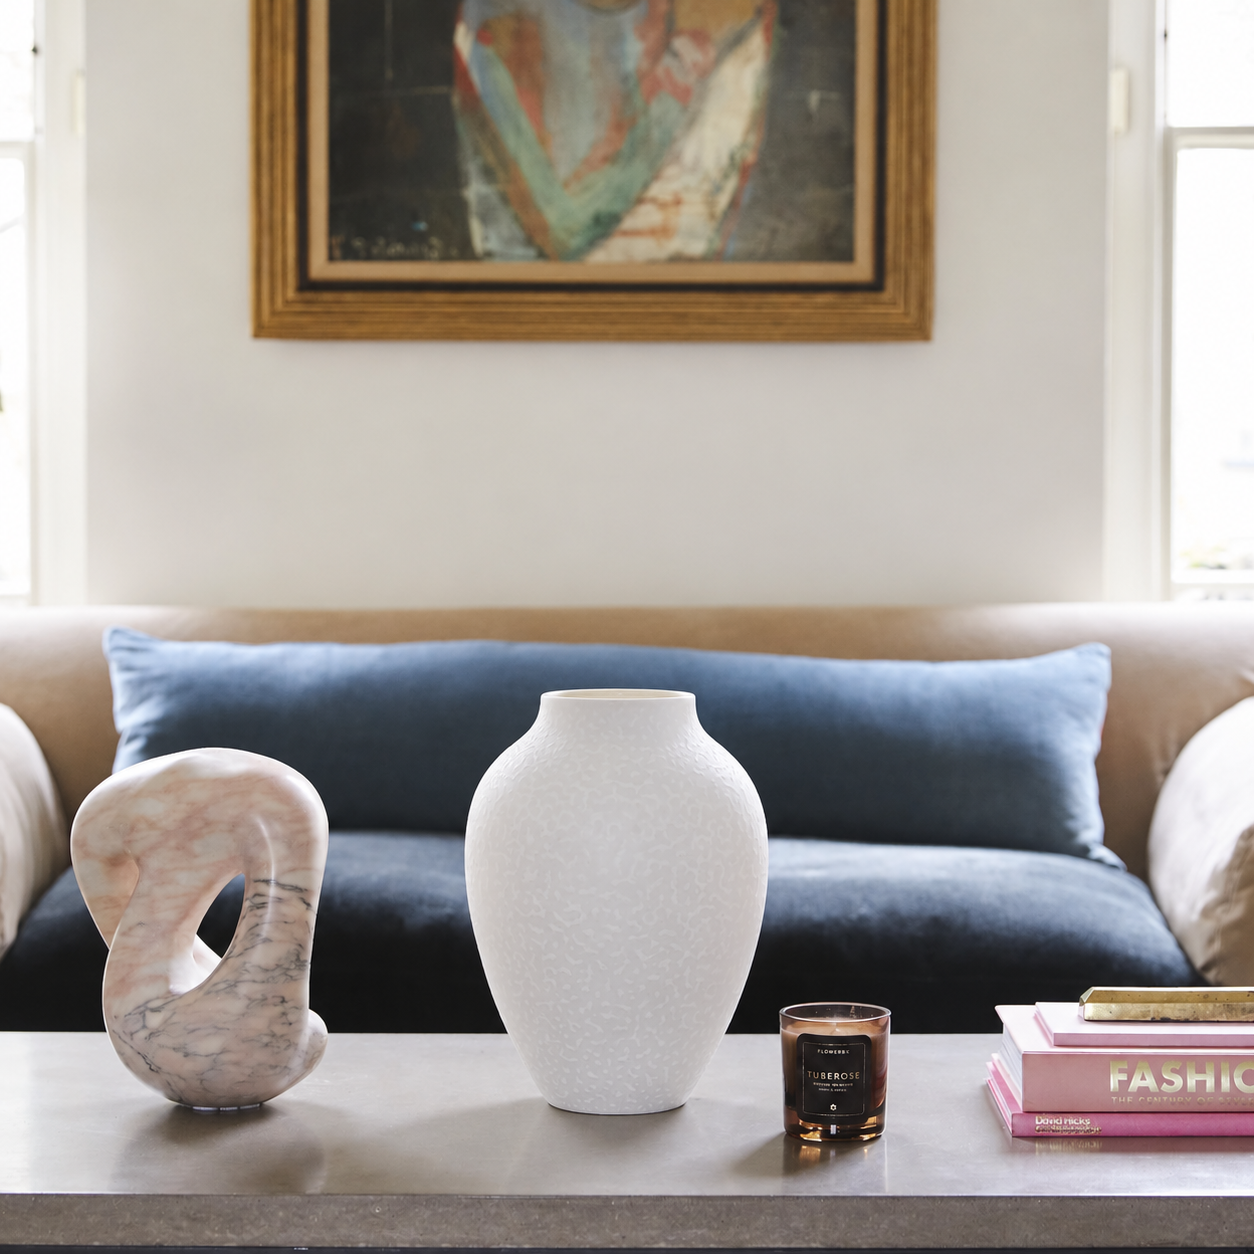
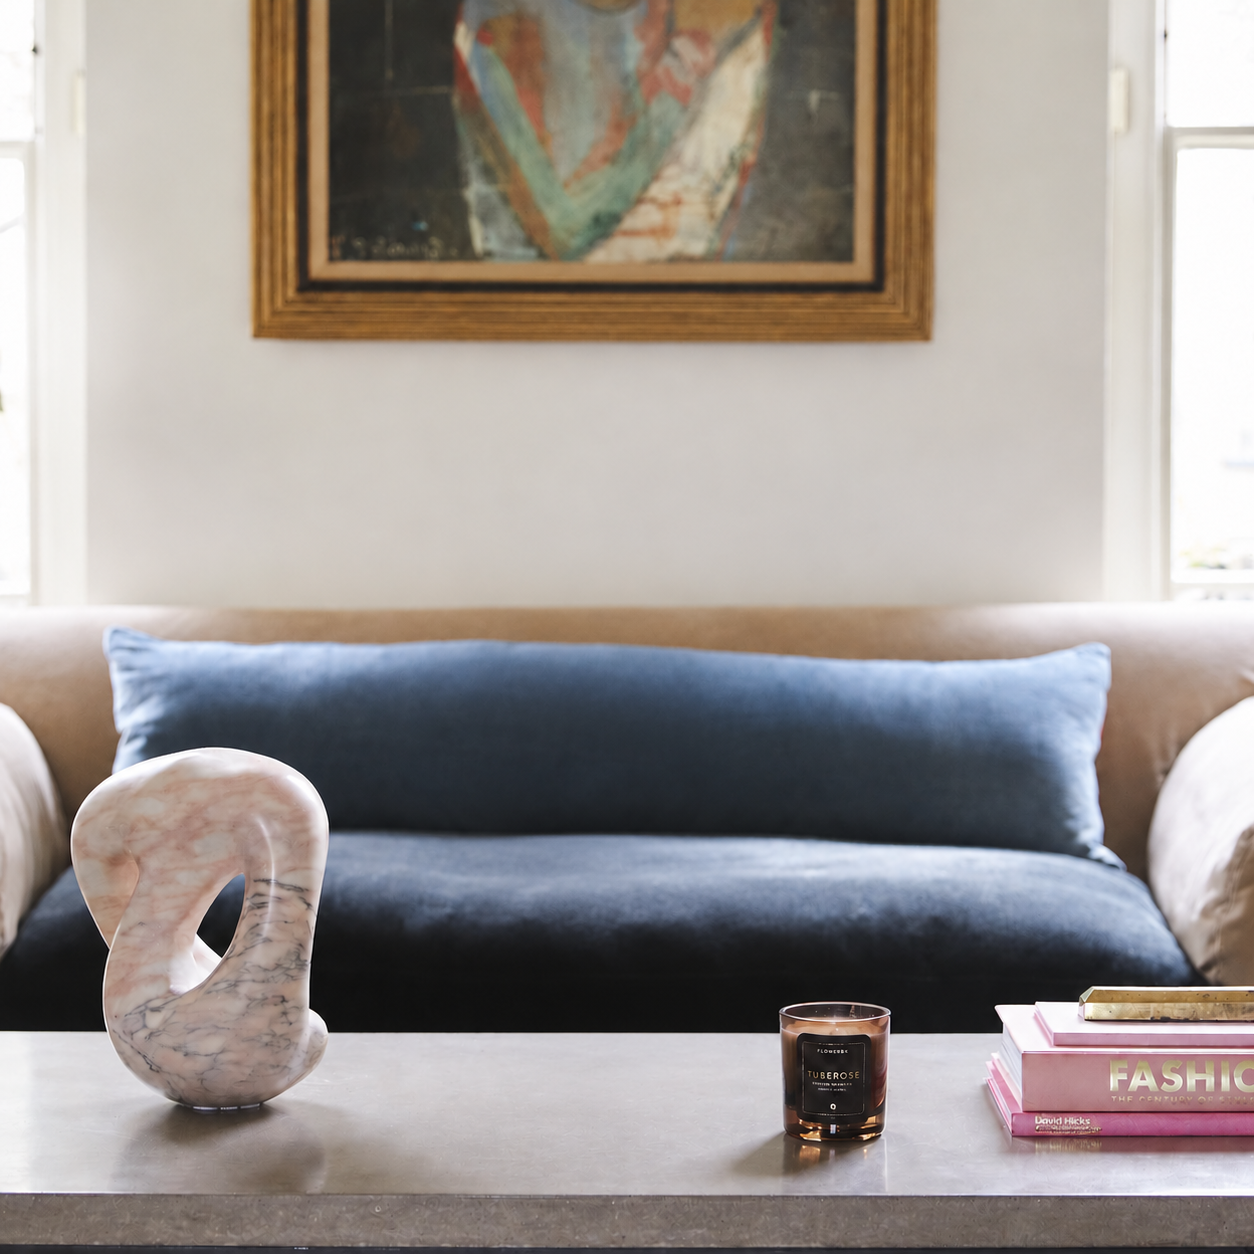
Refactor plant components and add Vase component for improved visuals

diff --git a/src/components/plant/Vase.tsx b/src/components/plant/Vase.tsx
@@ -1,0 +1,65 @@
+interface VaseProps {
+  /** y coordinate of the rim opening — the stem's base point. */
+  rimY: number;
+}
+
+const CX = 200;
+
+/**
+ * An illustrated white ceramic vase matching the one in the background
+ * photo, so the stem always aligns with a real opening regardless of how
+ * the photo itself gets cropped on a given screen.
+ */
+export function Vase({ rimY }: VaseProps) {
+  const rimHalfWidth = 42;
+  const shoulderHalfWidth = 84;
+  const shoulderY = rimY + 50;
+  const waistY = rimY + 160;
+  const footHalfWidth = 54;
+  const footY = rimY + 270;
+
+  const bodyPath = `
+    M ${CX - rimHalfWidth},${rimY}
+    C ${CX - shoulderHalfWidth * 0.86},${rimY + 22} ${CX - shoulderHalfWidth},${shoulderY - 14} ${CX - shoulderHalfWidth},${shoulderY + 6}
+    C ${CX - shoulderHalfWidth},${waistY + 16} ${CX - (shoulderHalfWidth + footHalfWidth) / 2},${footY - 34} ${CX - footHalfWidth},${footY}
+    Q ${CX},${footY + 10} ${CX + footHalfWidth},${footY}
+    C ${CX + (shoulderHalfWidth + footHalfWidth) / 2},${footY - 34} ${CX + shoulderHalfWidth},${waistY + 16} ${CX + shoulderHalfWidth},${shoulderY + 6}
+    C ${CX + shoulderHalfWidth},${shoulderY - 14} ${CX + shoulderHalfWidth * 0.86},${rimY + 22} ${CX + rimHalfWidth},${rimY}
+    Z
+  `;
+
+  const speckles: { x: number; y: number; r: number }[] = [
+    { x: -66, y: 40, r: 1.6 }, { x: -35, y: 68, r: 1.1 }, { x: 24, y: 26, r: 1.3 },
+    { x: 62, y: 74, r: 1.5 }, { x: -80, y: 112, r: 1.2 }, { x: -12, y: 124, r: 1.6 },
+    { x: 46, y: 118, r: 1.1 }, { x: 80, y: 136, r: 1.3 }, { x: -52, y: 160, r: 1.4 },
+    { x: 6, y: 178, r: 1.2 }, { x: 58, y: 172, r: 1.5 }, { x: -24, y: 202, r: 1.1 },
+    { x: 34, y: 208, r: 1.3 }, { x: -70, y: 74, r: 1.0 }, { x: 74, y: 38, r: 1.0 },
+    { x: -8, y: 88, r: 1.2 }, { x: 20, y: 196, r: 1.1 }, { x: -44, y: 220, r: 1.0 },
+  ];
+
+  return (
+    <g aria-hidden="true">
+      <ellipse cx={CX + 4} cy={footY + 18} rx={footHalfWidth + 30} ry={13} fill="var(--vase-contact-shadow)" opacity={0.3} />
+
+      <path d={bodyPath} fill="url(#vaseGradient)" stroke="var(--vase-shade)" strokeWidth={0.6} />
+
+      <g opacity={0.35}>
+        {speckles.map((s, i) => (
+          <circle key={i} cx={CX + s.x} cy={rimY + s.y} r={s.r} fill="var(--vase-speckle)" />
+        ))}
+      </g>
+
+      <path
+        d={`M ${CX - shoulderHalfWidth * 0.55},${shoulderY + 20} Q ${CX - shoulderHalfWidth * 0.75},${waistY + 30} ${CX - shoulderHalfWidth * 0.5},${footY - 20}`}
+        stroke="var(--vase-highlight)"
+        strokeWidth={10}
+        strokeLinecap="round"
+        fill="none"
+        opacity={0.25}
+      />
+
+      <ellipse cx={CX} cy={rimY} rx={rimHalfWidth} ry={9} fill="url(#vaseRimGradient)" />
+      <ellipse cx={CX} cy={rimY - 1} rx={rimHalfWidth - 8} ry={6} fill="var(--vase-opening)" />
+    </g>
+  );
+}

diff --git a/src/components/plant/Plant.tsx b/src/components/plant/Plant.tsx
@@ -1,5 +1,6 @@
 import { useEffect, useMemo } from "react";
 import { motion, useAnimationControls } from "motion/react";
+import { Vase } from "./Vase";
 import { Leaf } from "./Leaf";
 import { Bud } from "./Bud";
 import { Flower } from "./Flower";
@@ -25,8 +26,8 @@ export interface PlantProps {
 }
 
 const CX = 200;
-/** The vase's rim line — where the stem appears to emerge from the real photographed vase. */
-const BASE_Y = 430;
+/** The vase's rim line — where the stem appears to emerge from the illustrated vase. */
+const BASE_Y = 355;
 const MAX_STEM_HEIGHT = 300;
 const CURVE_AMOUNT = 22;
 
@@ -107,16 +108,25 @@ export function Plant({
 
   return (
     <svg
-      viewBox="0 0 400 450"
+      viewBox="0 0 400 630"
       className="plant-illustration"
       role="img"
       aria-label={
         isBloomed
-          ? "A fully bloomed pink lily rising from the vase"
-          : "A lily seedling growing from the vase"
+          ? "A fully bloomed pink lily rising from a white vase"
+          : "A lily seedling growing from a white vase"
       }
     >
       <defs>
+        <linearGradient id="vaseGradient" x1="0" y1="0" x2="1" y2="0.15">
+          <stop offset="0%" stopColor="var(--vase-mid)" />
+          <stop offset="45%" stopColor="var(--vase-light)" />
+          <stop offset="100%" stopColor="var(--vase-dark)" />
+        </linearGradient>
+        <linearGradient id="vaseRimGradient" x1="0" y1="0" x2="0" y2="1">
+          <stop offset="0%" stopColor="var(--vase-light)" />
+          <stop offset="100%" stopColor="var(--vase-shade)" />
+        </linearGradient>
         <linearGradient id="leafGradient" x1="0" y1="1" x2="0" y2="0">
           <stop offset="0%" stopColor="var(--leaf-dark)" />
           <stop offset="55%" stopColor="var(--leaf-mid)" />
@@ -163,6 +173,8 @@ export function Plant({
             : undefined
         }
       >
+        <Vase rimY={BASE_Y} />
+
         {growth > 0 && (
           <path
             d={stemPath}

diff --git a/src/components/WateringOverlay.tsx b/src/components/WateringOverlay.tsx
@@ -6,8 +6,8 @@ interface WateringOverlayProps {
   reducedMotion: boolean;
 }
 
-const SPOUT_TIP = { x: 246, y: 95 };
-const SOIL_TARGET = { x: 210, y: 410 };
+const SPOUT_TIP = { x: 246, y: 100 };
+const SOIL_TARGET = { x: 205, y: 365 };
 
 export function WateringOverlay({ pulse, reducedMotion }: WateringOverlayProps) {
   if (pulse === 0) return null;
@@ -17,7 +17,7 @@ export function WateringOverlay({ pulse, reducedMotion }: WateringOverlayProps) 
   return (
     <svg
       key={pulse}
-      viewBox="0 0 400 450"
+      viewBox="0 0 400 630"
       className="watering-overlay"
       aria-hidden="true"
       focusable="false"
@@ -32,7 +32,7 @@ export function WateringOverlay({ pulse, reducedMotion }: WateringOverlayProps) 
         transition={{ duration, times: [0, 0.28, 0.72, 1], ease: "easeInOut" }}
         style={{ transformOrigin: `${SPOUT_TIP.x}px ${SPOUT_TIP.y}px` }}
       >
-        <g transform="translate(216, 37)">
+        <g transform="translate(216, 42)">
           <rect x="0" y="18" width="58" height="40" rx="12" fill="var(--can-body)" />
           <rect x="8" y="4" width="24" height="18" rx="6" fill="var(--can-body)" />
           <path

diff --git a/src/App.css b/src/App.css
@@ -70,17 +70,15 @@
 
 .garden-stage {
   position: absolute;
-  top: 9vh;
-  left: 50%;
+  top: 39vh;
+  left: 51%;
   transform: translateX(-50%);
-  height: 48vh;
-  aspect-ratio: 400 / 450;
-  max-width: 92vw;
+  width: min(56vw, 225px);
 }
 
 .plant-illustration {
   width: 100%;
-  height: 100%;
+  height: auto;
   display: block;
   overflow: visible;
 }

diff --git a/src/index.css b/src/index.css
@@ -42,6 +42,15 @@
   --can-handle: #a8542c;
   --droplet-color: #8fd0e8;
 
+  --vase-light: #ffffff;
+  --vase-mid: #f1efe9;
+  --vase-dark: #dcd8ce;
+  --vase-shade: #c7c2b5;
+  --vase-highlight: #ffffff;
+  --vase-speckle: #b9b3a3;
+  --vase-opening: #ded9cd;
+  --vase-contact-shadow: #6b6355;
+
   --room-fallback: #ece4d6;
 
   --focus-ring: #2f6f4f;
